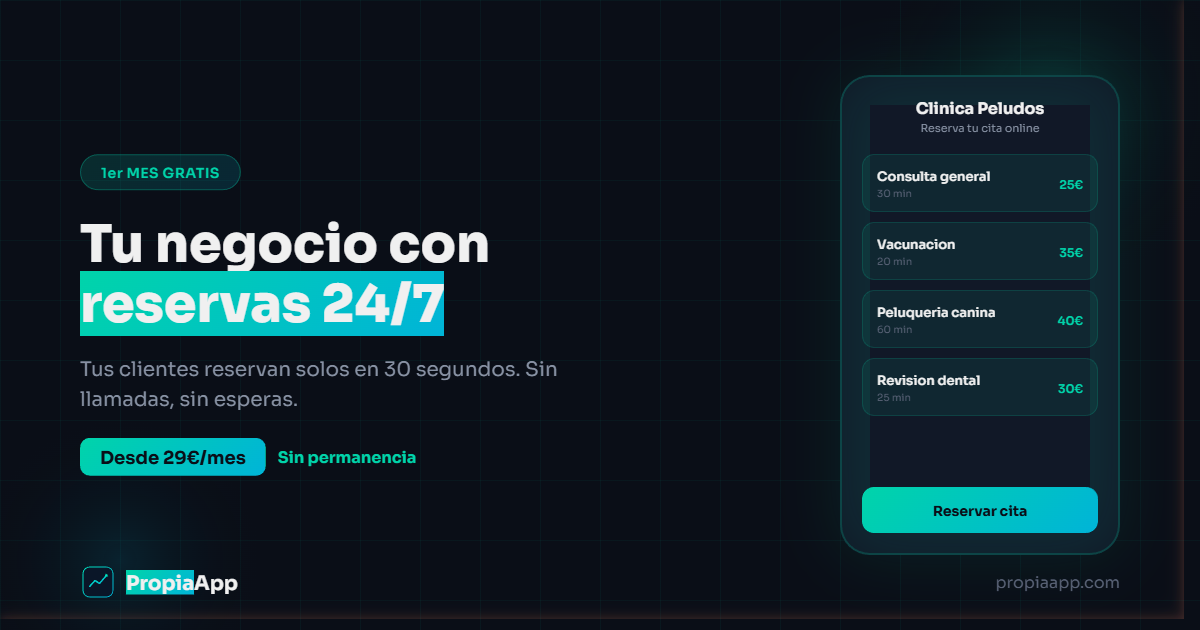
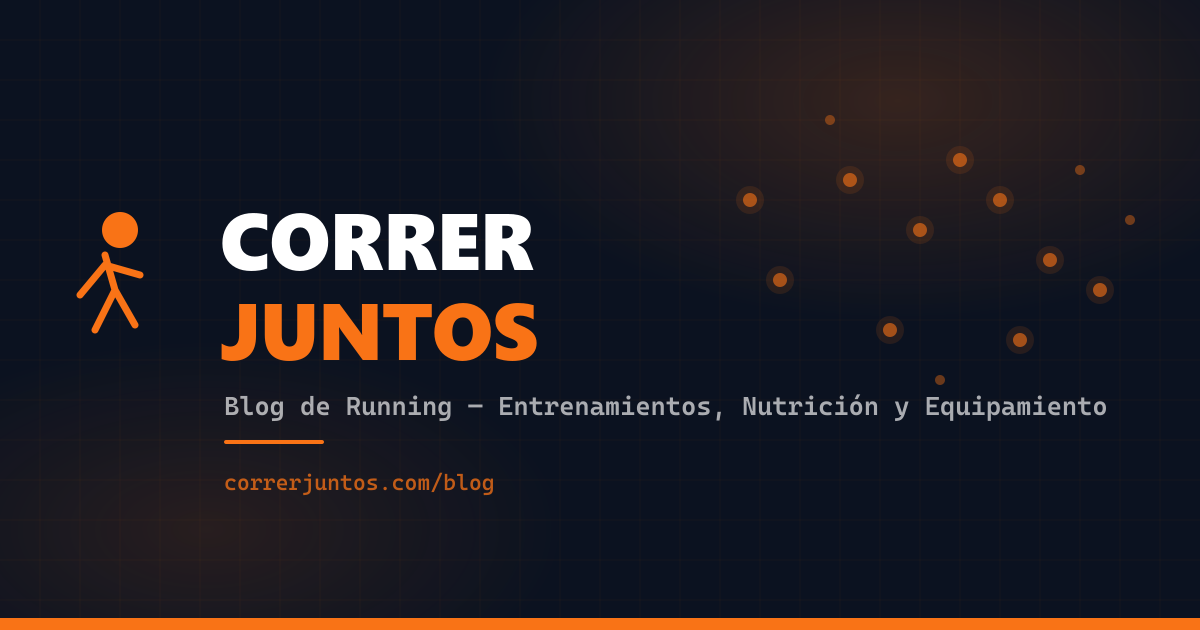
fix: replace PropiaApp OG image with CorrerJuntos branded image + add twitter:image to 82 blog files
The og-image.png was showing PropiaApp content ("Tu negocio con
reservas 24/7") instead of CorrerJuntos branding. Replaced with
proper 1200x630 branded image. Also added missing twitter:image
meta tag to all blog HTML files for proper social sharing previews.

diff --git a/blog/alimentos-antiinflamatorios-runners.html b/blog/alimentos-antiinflamatorios-runners.html
@@ -23,6 +23,7 @@
     <meta name="twitter:site" content="@CorrerJuntos">
 <meta name="twitter:title" content="15 Alimentos Antiinflamatorios para Runners">
 <meta name="twitter:description" content="Reduce inflamación, acelera recuperación y previene lesiones con estos 15 alimentos clave para corredores.">
+<meta name="twitter:image" content="https://www.correrjuntos.com/icons/og-image.png">
 <script type="application/ld+json">
 {
   "@context": "https://schema.org",

diff --git a/blog/apple-watch-running-review.html b/blog/apple-watch-running-review.html
@@ -23,6 +23,7 @@
 <meta name="twitter:site" content="@CorrerJuntos">
 <meta name="twitter:title" content="Apple Watch para Running: ¿Merece la Pena para Corredores?">
 <meta name="twitter:description" content="Análisis del Apple Watch para running: GPS, métricas de carrera, batería, apps y comparativa con Garmin y COROS.">
+<meta name="twitter:image" content="https://www.correrjuntos.com/icons/og-image.png">
 <script type="application/ld+json">
 {
   "@context": "https://schema.org",

diff --git a/blog/asics-gel-nimbus-26-vs-nike-pegasus-41.html b/blog/asics-gel-nimbus-26-vs-nike-pegasus-41.html
@@ -23,6 +23,7 @@
     <meta name="twitter:site" content="@CorrerJuntos">
 <meta name="twitter:title" content="ASICS Gel-Nimbus 26 vs Nike Pegasus 41 | Comparativa 2026">
 <meta name="twitter:description" content="La premium de ASICS contra la versátil de Nike. Cuál es mejor para ti.">
+<meta name="twitter:image" content="https://www.correrjuntos.com/icons/og-image.png">
 <script type="application/ld+json">
 {
   "@context": "https://schema.org",

diff --git a/blog/auriculares-conduccion-osea-vs-in-ear-running.html b/blog/auriculares-conduccion-osea-vs-in-ear-running.html
@@ -23,6 +23,7 @@
     <meta name="twitter:site" content="@CorrerJuntos">
 <meta name="twitter:title" content="Conducción Ósea vs In-Ear para Running: ¿Cuál Elegir?">
 <meta name="twitter:description" content="Comparativa completa entre auriculares de conducción ósea, in-ear y open-ear para correr. Los 6 mejores modelos de 2026.">
+<meta name="twitter:image" content="https://www.correrjuntos.com/icons/og-image.png">
 <script type="application/ld+json">
 {
   "@context": "https://schema.org",

diff --git a/blog/auriculares-running-natacion.html b/blog/auriculares-running-natacion.html
@@ -23,6 +23,7 @@
 <meta name="twitter:site" content="@CorrerJuntos">
 <meta name="twitter:title" content="Mejores Auriculares Running y Natacion 2026: Guia para Triatletas">
 <meta name="twitter:description" content="6 auriculares que funcionan en tierra y agua. Conduccion osea, MP3 acuatico, IP68 y todo lo que necesitas saber.">
+<meta name="twitter:image" content="https://www.correrjuntos.com/icons/og-image.png">
 <script type="application/ld+json">
 {
   "@context": "https://schema.org",

diff --git a/blog/ayuno-intermitente-running.html b/blog/ayuno-intermitente-running.html
@@ -23,6 +23,7 @@
     <meta name="twitter:site" content="@CorrerJuntos">
 <meta name="twitter:title" content="Ayuno Intermitente y Running: ¿Compatible o Peligroso?">
 <meta name="twitter:description" content="Protocolos 16:8 y 5:2, cuando entrenar en ayunas y cuando evitarlo. Guia para corredores.">
+<meta name="twitter:image" content="https://www.correrjuntos.com/icons/og-image.png">
 <script type="application/ld+json">
 {
   "@context": "https://schema.org",

diff --git a/blog/beneficios-correr-en-grupo.html b/blog/beneficios-correr-en-grupo.html
@@ -23,6 +23,7 @@
     <meta name="twitter:site" content="@CorrerJuntos">
 <meta name="twitter:title" content="7 Beneficios de Correr en Grupo">
 <meta name="twitter:description" content="Correr acompañado mejora tu rendimiento, consistencia y salud mental.">
+<meta name="twitter:image" content="https://www.correrjuntos.com/icons/og-image.png">
 <script type="application/ld+json">
 {
   "@context": "https://schema.org",

diff --git a/blog/beneficios-de-correr.html b/blog/beneficios-de-correr.html
@@ -23,6 +23,7 @@
 <meta name="twitter:site" content="@CorrerJuntos">
 <meta name="twitter:title" content="15 Beneficios de Correr Avalados por la Ciencia">
 <meta name="twitter:description" content="Salud cardiovascular, perdida de peso, salud mental, longevidad y mas. Todo lo que correr puede hacer por ti.">
+<meta name="twitter:image" content="https://www.correrjuntos.com/icons/og-image.png">
 <script type="application/ld+json">
 {
   "@context": "https://schema.org",

diff --git a/blog/cafeina-running-rendimiento.html b/blog/cafeina-running-rendimiento.html
@@ -23,6 +23,7 @@
     <meta name="twitter:site" content="@CorrerJuntos">
 <meta name="twitter:title" content="Cafeína y Running: Cómo Mejorar tu Rendimiento">
 <meta name="twitter:description" content="Dosis óptima, timing, geles con cafeína, tolerancia y protocolo para carreras. Guía basada en ciencia.">
+<meta name="twitter:image" content="https://www.correrjuntos.com/icons/og-image.png">
 <script type="application/ld+json">
 {
   "@context": "https://schema.org",

diff --git a/blog/calcetines-running.html b/blog/calcetines-running.html
@@ -23,6 +23,7 @@
 <meta name="twitter:site" content="@CorrerJuntos">
 <meta name="twitter:title" content="Los 8 Mejores Calcetines para Running 2026">
 <meta name="twitter:description" content="Comparativa de los 8 mejores calcetines para correr: Balega, Stance, Darn Tough, Nike, Compressport, Kiprun, Injinji y CEP.">
+<meta name="twitter:image" content="https://www.correrjuntos.com/icons/og-image.png">
 <script type="application/ld+json">
 {
   "@context": "https://schema.org",

diff --git a/blog/carga-hidratos-maraton.html b/blog/carga-hidratos-maraton.html
@@ -23,6 +23,7 @@
     <meta name="twitter:site" content="@CorrerJuntos">
 <meta name="twitter:title" content="Carga de Hidratos antes de un Maratón: Protocolo Completo">
 <meta name="twitter:description" content="Protocolo de carga de carbohidratos de 3 días para maratón: cantidades, alimentos, menú y errores comunes.">
+<meta name="twitter:image" content="https://www.correrjuntos.com/icons/og-image.png">
 <script type="application/ld+json">
 {
   "@context": "https://schema.org",

diff --git a/blog/carreras-trail-principiantes.html b/blog/carreras-trail-principiantes.html
@@ -23,6 +23,7 @@
 <meta name="twitter:site" content="@CorrerJuntos">
 <meta name="twitter:title" content="Las 10 Mejores Carreras de Trail para Principiantes en España 2026">
 <meta name="twitter:description" content="Las 10 carreras de trail mas accesibles de España para principiantes. Distancias cortas, paisajes unicos y consejos para tu debut en montaña.">
+<meta name="twitter:image" content="https://www.correrjuntos.com/icons/og-image.png">
 <script type="application/ld+json">
 {
   "@context": "https://schema.org",